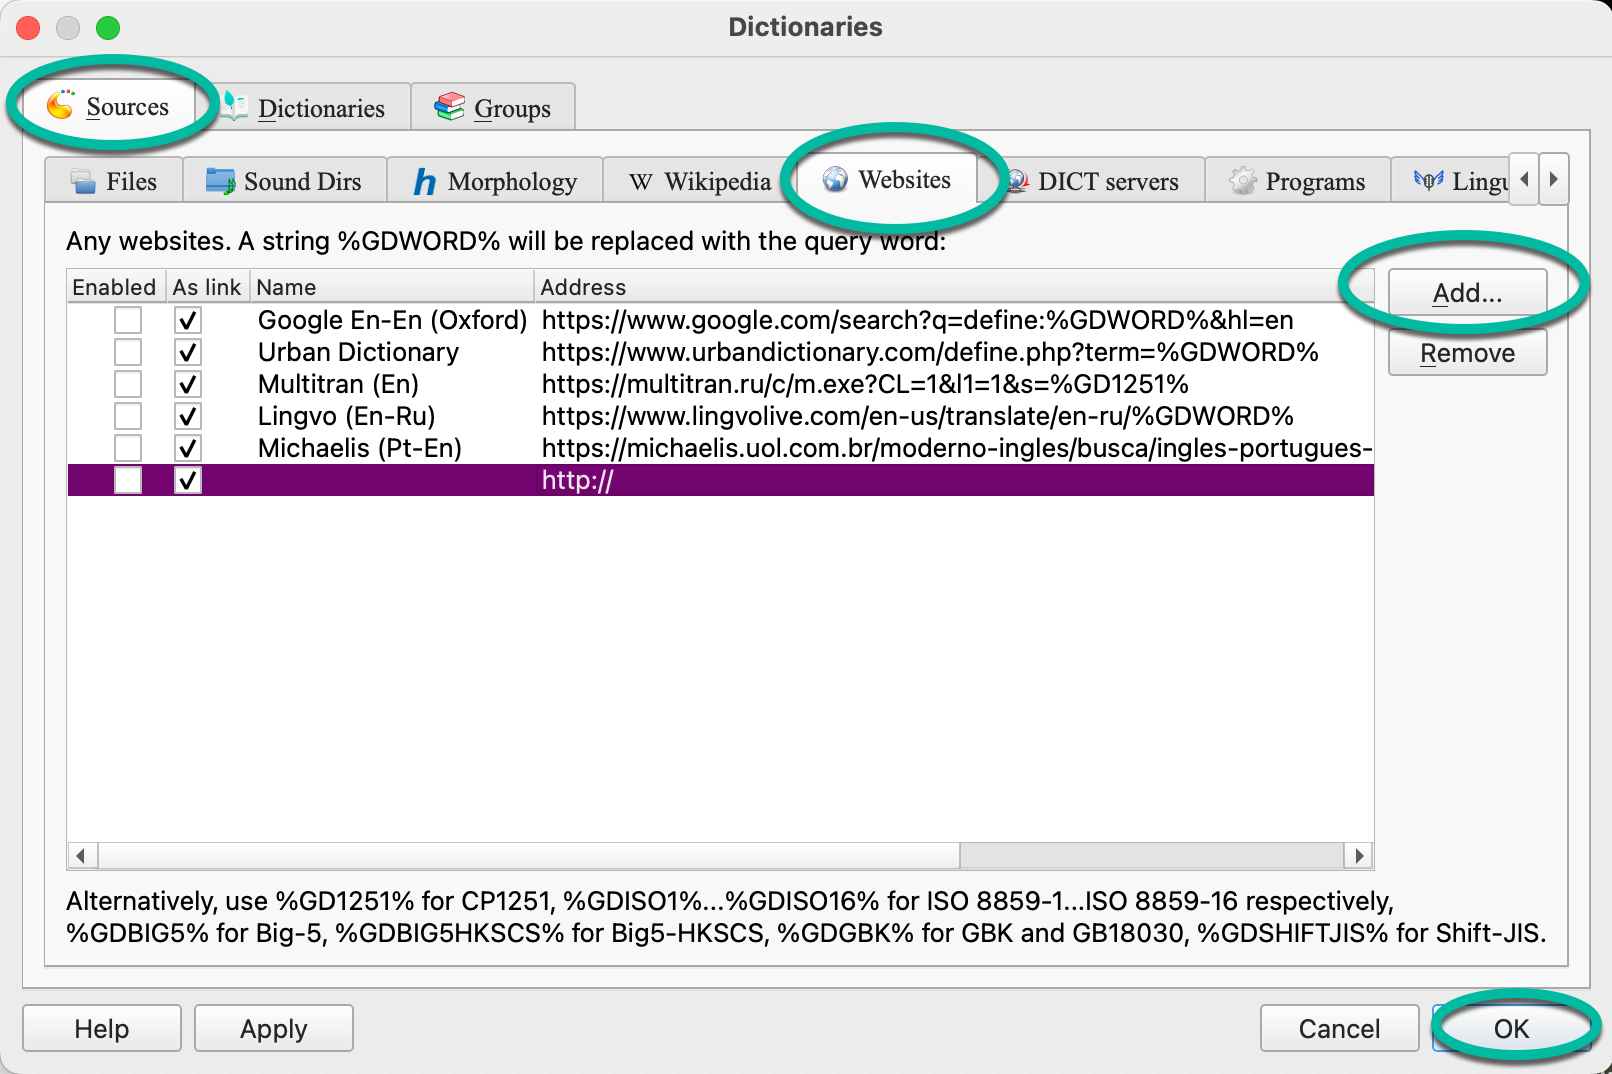
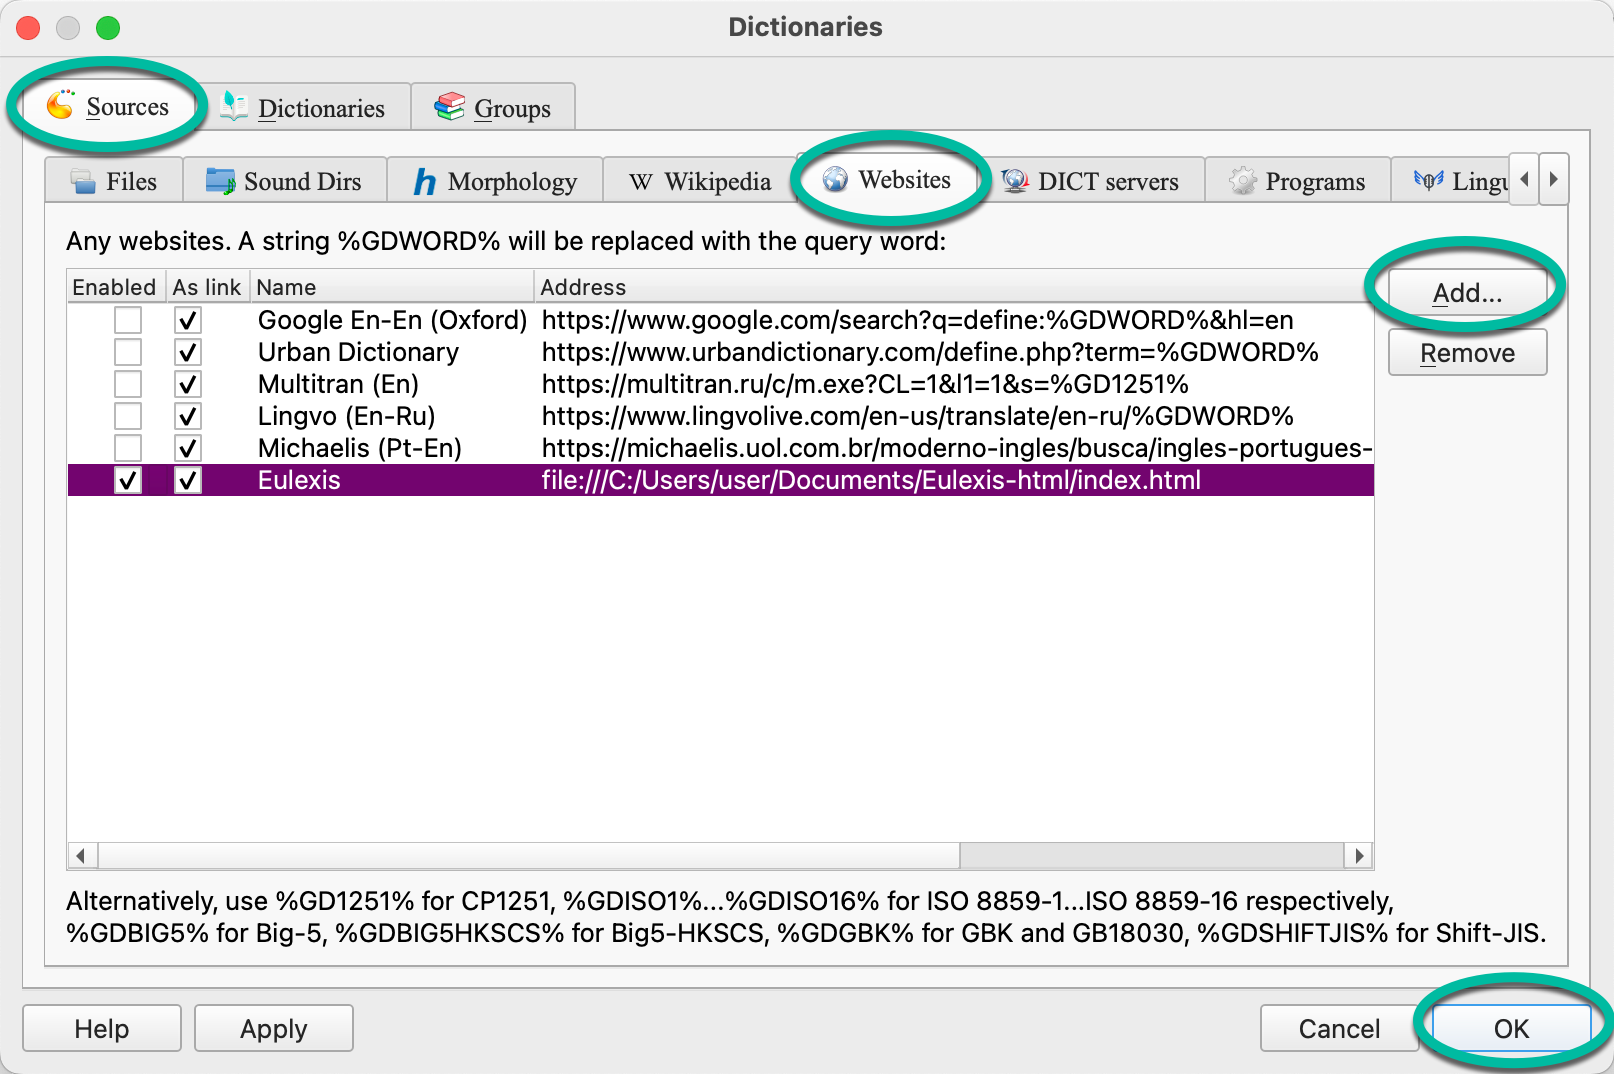
Edits to howto
I smoothed the instructions and added two images.

diff --git a/docs/howto.md b/docs/howto.md
@@ -13,18 +13,19 @@ Since GoldenDict is open source, you can find variations of it from various sour
 
 * [Windows](https://github.com/goldendict/goldendict/wiki/Early-Access-Builds-for-Windows).
 * [macOS](https://github.com/goldendict/goldendict/wiki/Early-Access-Builds-for-Mac-OS-X).
-* [Linux](https://flathub.org/apps/io.github.xiaoyifang.goldendict_ng). Another option is [AppImage build](https://github.com/Abs62/goldendict/releases).
+* [Linux](https://flathub.org/apps/io.github.xiaoyifang.goldendict_ng). (Or try [AppImage build](https://github.com/Abs62/goldendict/releases).)
 
 **Note:** Some dictionaries from our collection (especially HTML dictionaries) are not yet compatible with xiaoyifang's version. SLOB files should work fine though.
 
-## Working with dictionaries in GoldenDict
+## Working with dictionary files
+Once you instal GoldenDict, you can start adding the dictionary files that you download from this site. The instructions below give advice on downloading, adding, and updating dictionaries.
 
-To use the dictionaries on this site, you must add them to GoldenDict.
-Install the app, and then follow these steps:
+**Note:** The process for adding files depends of the file format. Check your file type and follow the appropriate instructions.
 
-### Prepare a dictionary file
+### Download a dictionary file
+Follow these steps to ensure your dictionary file your select is correctly downloaded and compatible with GoldenDict:
 
-1. **Download** your desired dictionary file. 
+1. **Select** your desired dictionary file.
 
     Browse the Latin Dictionary site, then select files that end with either "slob.zip" or "html.zip" and ignore any named "Source code."
 1. If your downloaded ZIP file doesn't automatically expand, **double click** on it.
@@ -32,33 +33,35 @@ Install the app, and then follow these steps:
     You should end up with a folder containg at least one file. For example, if you downloaded Lewis' An Elementary Latin Dictionary, you should have a folder titled Lewis1890-slob, which contains the file Lewis1890-lat-eng.slob.
 1. **Save** the extracted folder and its contents on your computer.
 
-    If you plan on downloading multiple dictionaries, it's a good idea to save them in single location for easy access.
+    **Note:** If you plan on downloading multiple dictionaries, it's a good idea to save them in single location for easy access.
 
-### Add a SLOB dictionary to GoldenDict
+### Add a SLOB dictionary
 
 1. In the GoldenDict menu bar, go to **Edit > Dictionaries**.
 1. Select the **Sources** tab in the Dictionary window. (It should be shown by default; see image below.)
-1. Press **Add**. (This will open a popup window.)
+1. Press **Add**. This will open a popup window.
 1. Click on the **pulldown menu** at the top of the popup window, and navigate to where you keep your dictionaries. Select the folder that contains the dictionary you want to add, and click **Open**. (You'll see the path to your selected dictionary appear in the Sources tab.)
 1. Press **OK** to confirm and exit the Dictionaries window.
 
-{% include img-viewer.html img="img/goldendict-1.png" %}
+{% include img-viewer.html img="img/goldendict-2.png" %}
 
 ### Add an HTML dictionary to GoldenDict
 
 1. In the GoldenDict menu bar, go to **Edit > Dictionaries**.
-1. Select the **Websites** tab in the Dictionary window.
-1. In GoldenDict, open menu Edit > Dictionaries.
-1. Switch to the tab Websites.
-1. Press **Add**. (A blank new entry will appear in the Websites window.)
+1. Select the **Websites** tab in the Dictionary window. (See image below.)
+1. Press **Add**. A blank new entry will appear in the Websites window. (See the highlighted line in the image below.)
 1. Fill in the entry items as follows:
 
     * Enabled: ☑ (on)
     * As link: ☑ (on)
     * Name: Give this dictionary a name. (Anything is OK.)
-    * Address: `file:///C:/Users/user/Documents/Eulexis-html/index.html` (Adapt this to match the path to your HTML dictionary file; it should start with 'file:///'.)
+    * Address: Enter the filepath to the HTML dictionary file saved on your computer. It should look like this: `file:///C:/Users/user/Documents/Eulexis-html/index.html`.
+    
+        **Note:** The app provides `http://` by default. Be sure to change this to `file:///`, and then add your filepath.
 1. Press **OK** to confirm and exit the Dictionaries window.
+
+{% include img-viewer.html img="img/htmldict.png" %}
 
 ### Update a dictionary
 
-To upadate and installed dictionary, simply replace the original folder with the new release. Then in the menu bar, go to File&nbsp;>&nbsp;Rescan Files.
+To upadate and installed dictionary, simply replace the original folder saved on your computer with the new release. Then in the menu bar, go to File&nbsp;>&nbsp;Rescan Files.
